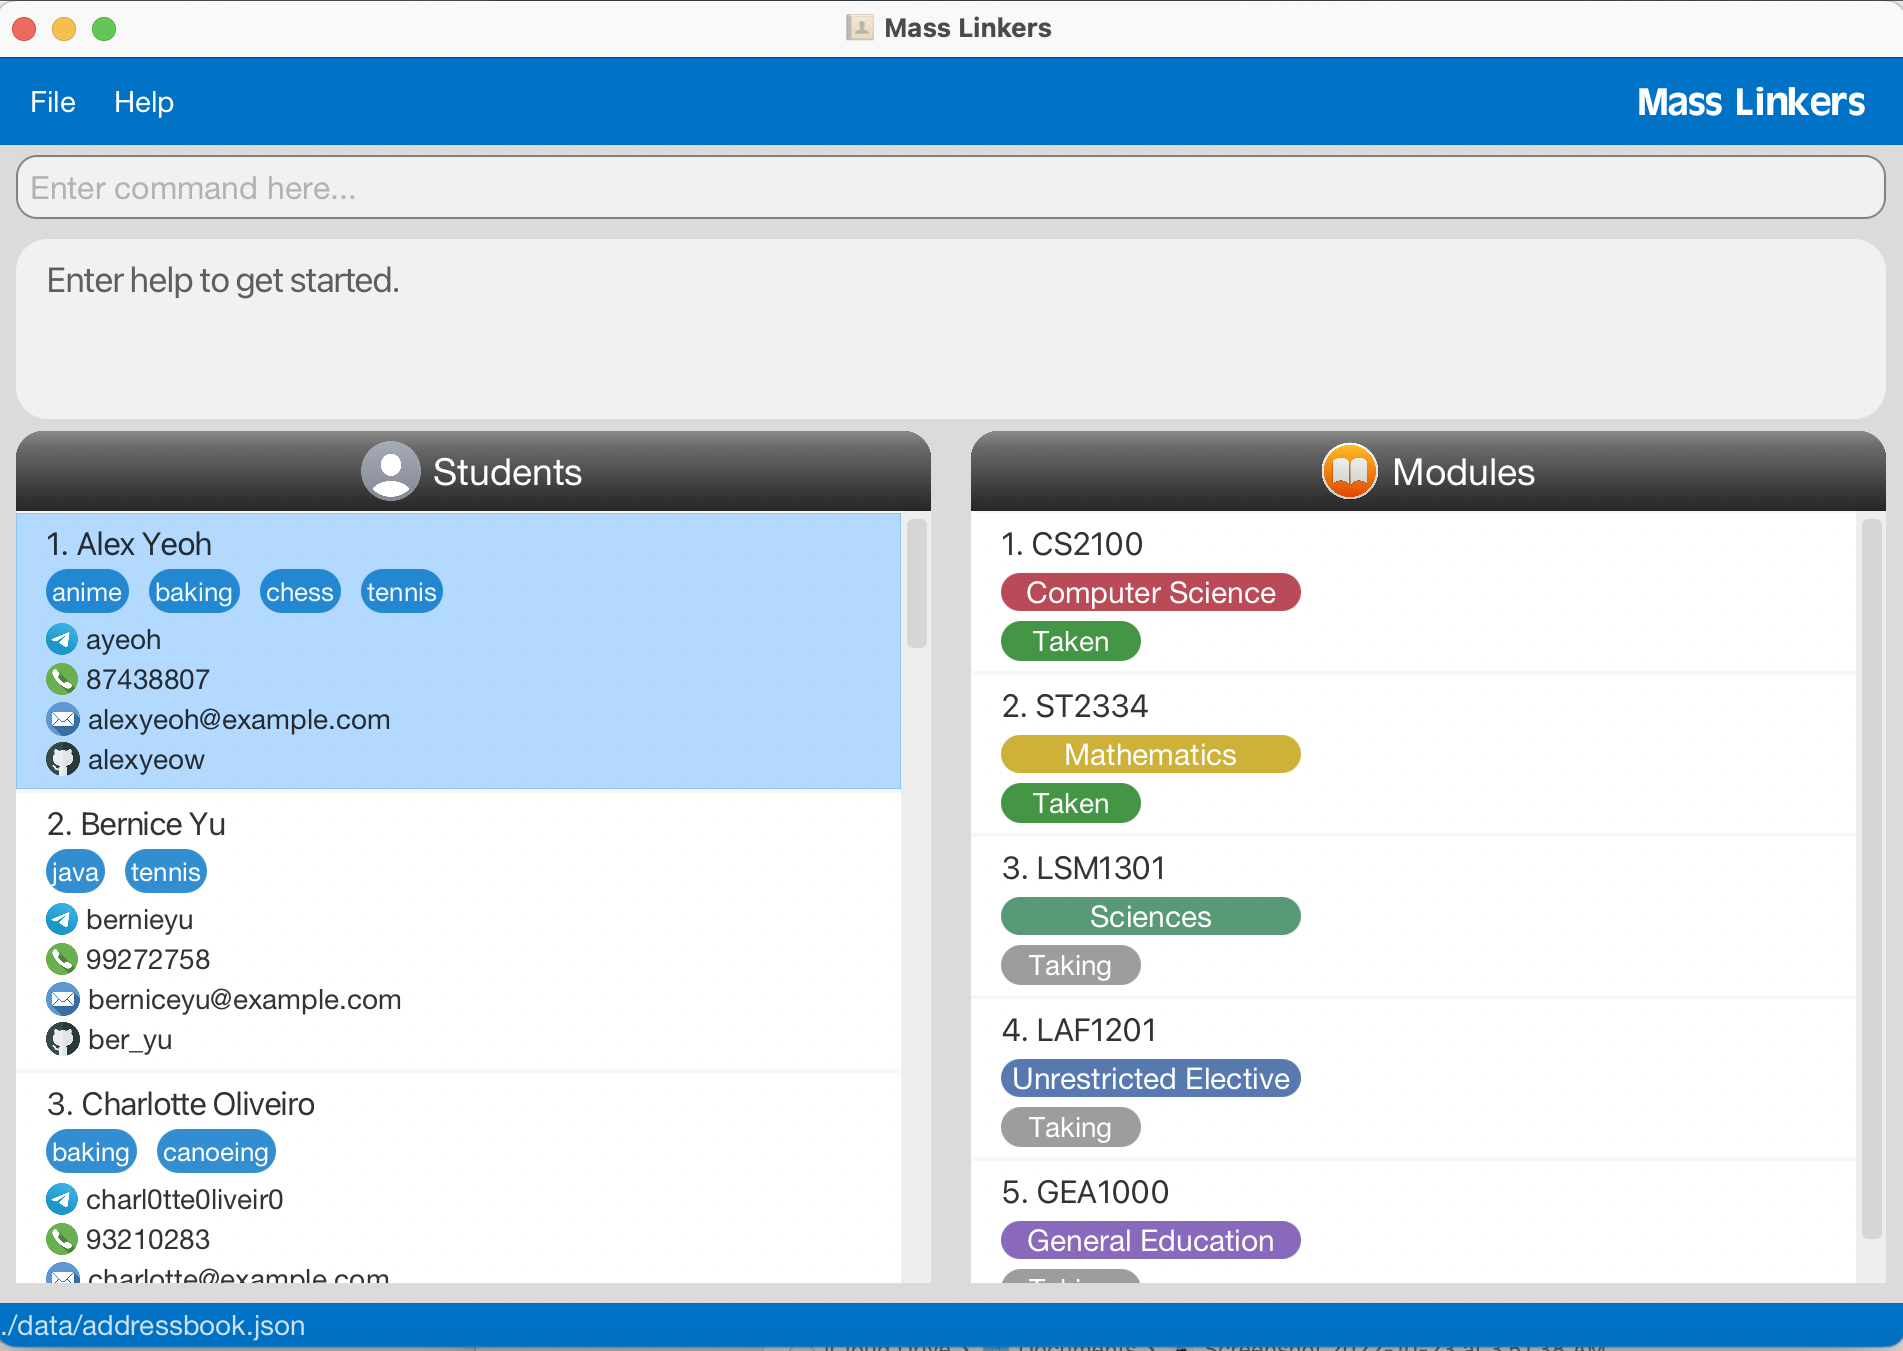
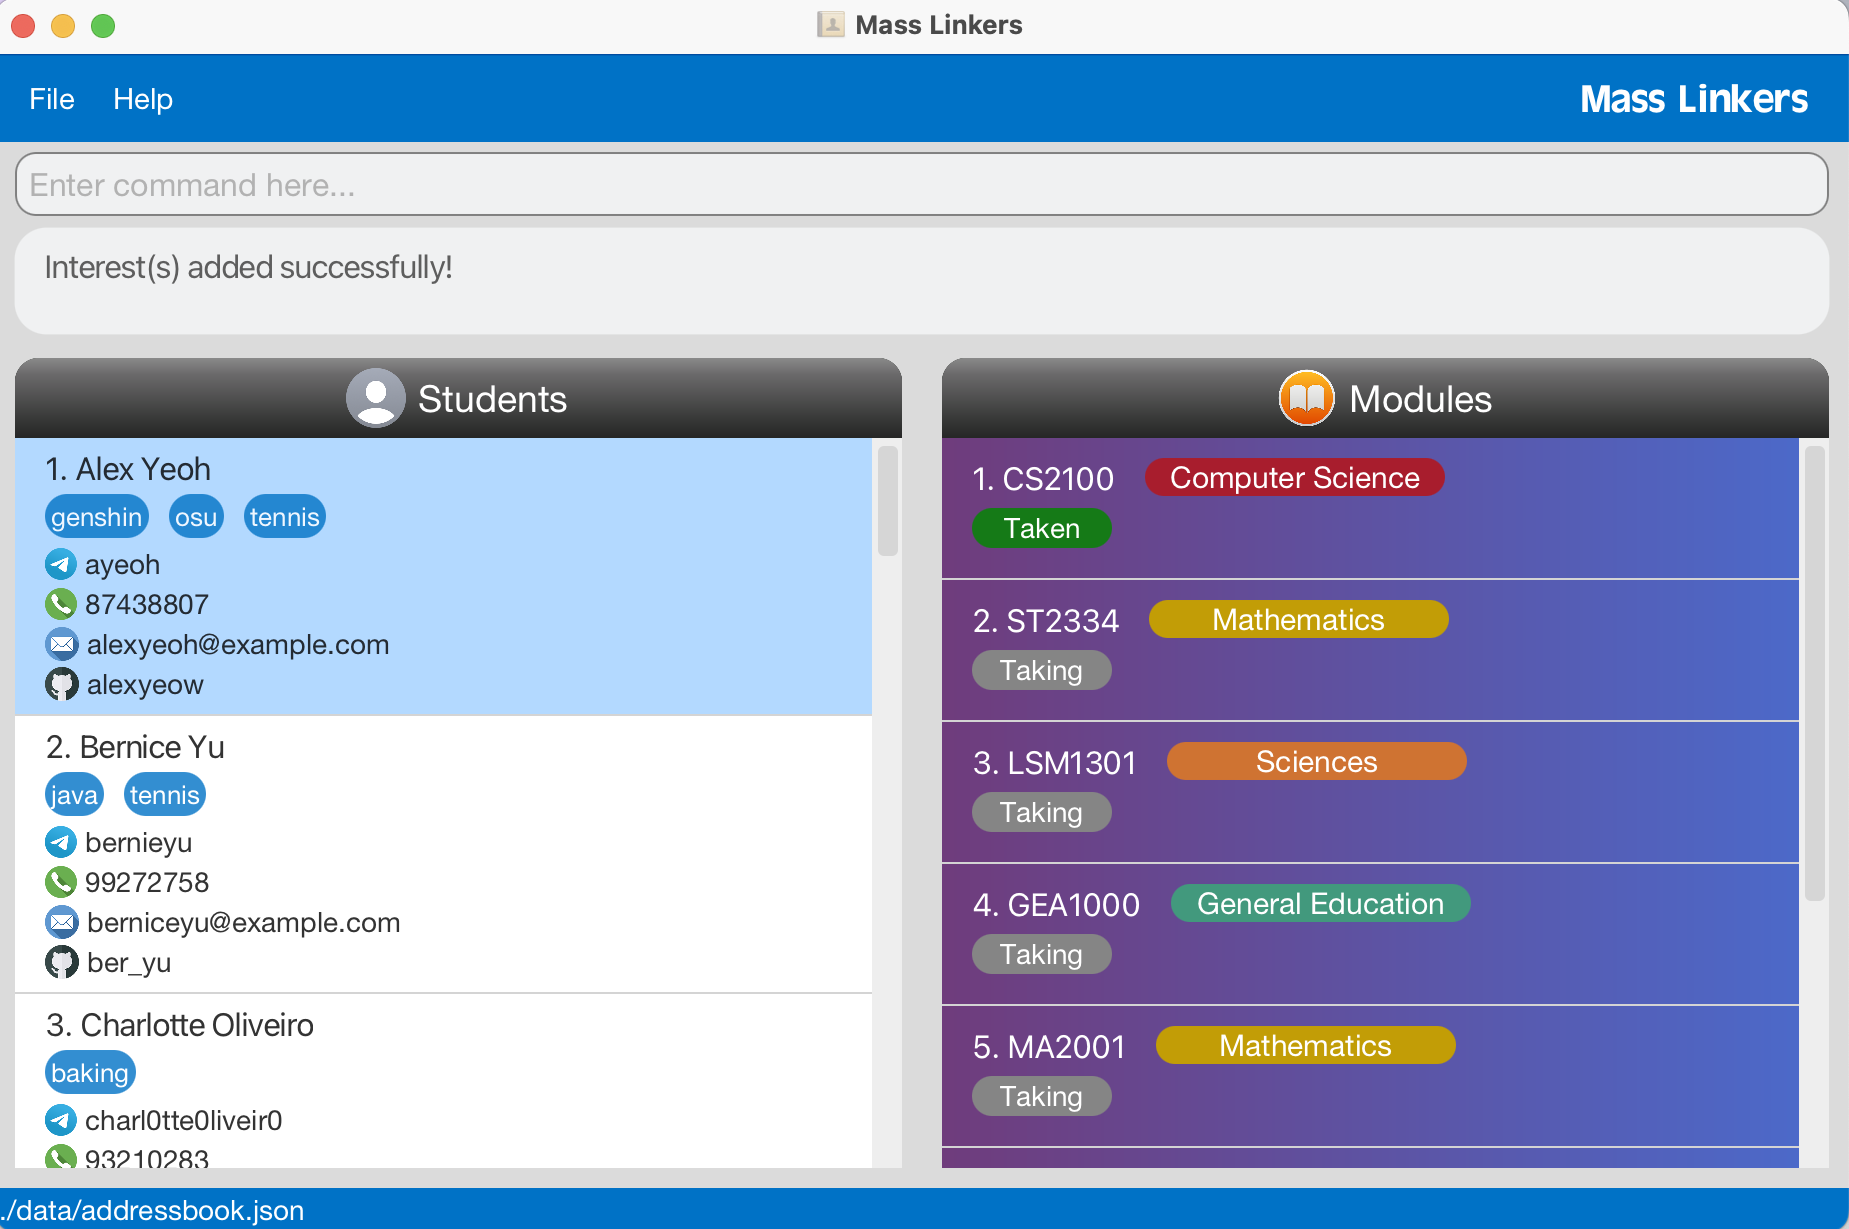
Edit layout

diff --git a/src/main/resources/view/css/DarkTheme.css b/src/main/resources/view/css/DarkTheme.css
@@ -112,27 +112,33 @@
     -fx-background-insets: 0;
     -fx-padding: 0;
     -fx-background-color: white;
-    -fx-border-radius: 0.1;
 }
 
 .list-cell {
     -fx-label-padding: 0 0 0 0;
     -fx-graphic-text-gap : 0;
-    -fx-padding: 1 0 1 0;
+    -fx-padding: 0 0 0 0;
+}
+
+.list-cell:empty {
+    /*-fx-background-color: #dbdbdb;*/
+    -fx-background-color: white;
 }
 
 .list-cell:filled:even {
     -fx-background-color: #f7f7f7;
+    -fx-border-width: 0 0 1 0;
+    -fx-border-color: #d4d4d4;
 }
 
 .list-cell:filled:odd {
     -fx-background-color: #f7f7f7;
+    -fx-border-width: 0 0 1 0;
+    -fx-border-color: #d4d4d4;
 }
 
 .list-cell:filled:selected #cardPane {
     -fx-background-color: #b3d9ff;
-    -fx-border-color: #0072C6;
-    -fx-border-width: 0.1;
 }
 
 .list-cell .label {
@@ -143,6 +149,13 @@
     -fx-font-family: "Segoe UI Semibold";
     -fx-font-size: 16px;
     -fx-text-fill: #010504;
+}
+
+#modName, #modId {
+    -fx-font-family: "Segoe UI Semibold";
+    -fx-font-size: 16px;
+    -fx-text-fill: white;
+    -fx-opacity: 1;
 }
 
 .cell_small_label {
@@ -156,7 +169,6 @@
 }
 
 .pane-with-border {
-    /*outlook color*/
     -fx-background-color: #dbdbdb;
 }
 
@@ -168,7 +180,7 @@
     -fx-background-color: #f0f1f2;
     -fx-background-radius: 16px;
     -fx-font-family: "Segoe UI Light";
-    -fx-font-size: 13pt;
+    -fx-font-size: 12pt;
     -fx-text-fill: #5e5e5e;
     -fx-padding: 4px 4px 4px 4px;
 }
@@ -180,7 +192,7 @@
             linear-gradient(#020b02, #3a3a3a),
             linear-gradient(#9d9e9d 0%, #6b6a6b 20%, #343534 80%, #242424 100%),
             linear-gradient(#8a8a8a 0%, #6b6a6b 20%, #343534 80%, #262626 100%);
-    -fx-background-radius: 14 14 0 0;
+    -fx-background-radius: 12 12 0 0;
 }
 
 .result-display .label {
@@ -191,6 +203,7 @@
     -fx-font-family: "Helvetica Neue";
     -fx-font-size: 14;
     -fx-text-fill: white;
+    -fx-opacity: 1;
     -fx-padding: 2px;
 }
 
@@ -353,6 +366,10 @@
     -fx-border-width: 0;
 }
 
+#modCardPane {
+    -fx-background-color: linear-gradient(to right, #6f3c7c, #4c69c9);
+}
+
 #commandTypeLabel {
     -fx-font-size: 11px;
     -fx-text-fill: black;
@@ -394,6 +411,7 @@
 #modCategory {
     -fx-background-radius: 16, 16, 0, 0;
     -fx-alignment: center;
+    -fx-opacity: 1;
     -fx-text-fill: white;
     -fx-pref-width: 150px;
     -fx-font-size: 15;
@@ -402,6 +420,7 @@
 #takenStatus {
     -fx-background-radius: 16, 16, 0, 0;
     -fx-alignment: center;
+    -fx-opacity: 1;
     -fx-text-fill: white;
     -fx-pref-width: 70px;
     -fx-font-size: 14;

diff --git a/src/main/java/seedu/address/ui/ModCard.java b/src/main/java/seedu/address/ui/ModCard.java
@@ -26,7 +26,7 @@ public class ModCard extends UiPart<Region> {
     @FXML
     private HBox cardPane;
     @FXML
-    private Label id;
+    private Label modId;
     @FXML
     private Label modName;
     @FXML
@@ -40,7 +40,7 @@ public class ModCard extends UiPart<Region> {
     public ModCard(Mod module, int displayedIndex) {
         super(FXML);
         this.module = module;
-        id.setText(displayedIndex + ". ");
+        modId.setText(displayedIndex + ". ");
         modName.setText(module.getModName());
 
         Mod.ModCategory modCat = module.getModCategory();
@@ -52,13 +52,13 @@ public class ModCard extends UiPart<Region> {
         } else if (modCat.equals(Mod.ModCategory.MATH)) {
             modCategory.setStyle("-fx-background-color: #c29d06;");
         } else if (modCat.equals(Mod.ModCategory.SCI)) {
-            modCategory.setStyle("-fx-background-color: #2e8054;");
+            modCategory.setStyle("-fx-background-color: #cf7332;");
         } else if (modCat.equals(Mod.ModCategory.COMMS)) {
             modCategory.setStyle("-fx-background-color: #9f3cb6;");
         } else if (modCat.equals(Mod.ModCategory.GE)) {
-            modCategory.setStyle("-fx-background-color: #6b43ab;");
+            modCategory.setStyle("-fx-background-color: #42997d;");
         } else if (modCat.equals(Mod.ModCategory.UE)) {
-            modCategory.setStyle("-fx-background-color: #2d589b;");
+            modCategory.setStyle("-fx-background-color: #54789c;");
         }
 
         boolean hasTaken = module.getModStatus();
@@ -85,7 +85,7 @@ public class ModCard extends UiPart<Region> {
 
         // state check
         ModCard card = (ModCard) other;
-        return id.getText().equals(card.id.getText())
+        return modId.getText().equals(card.modId.getText())
                 && this.module.equals(card.module);
     }
 }
